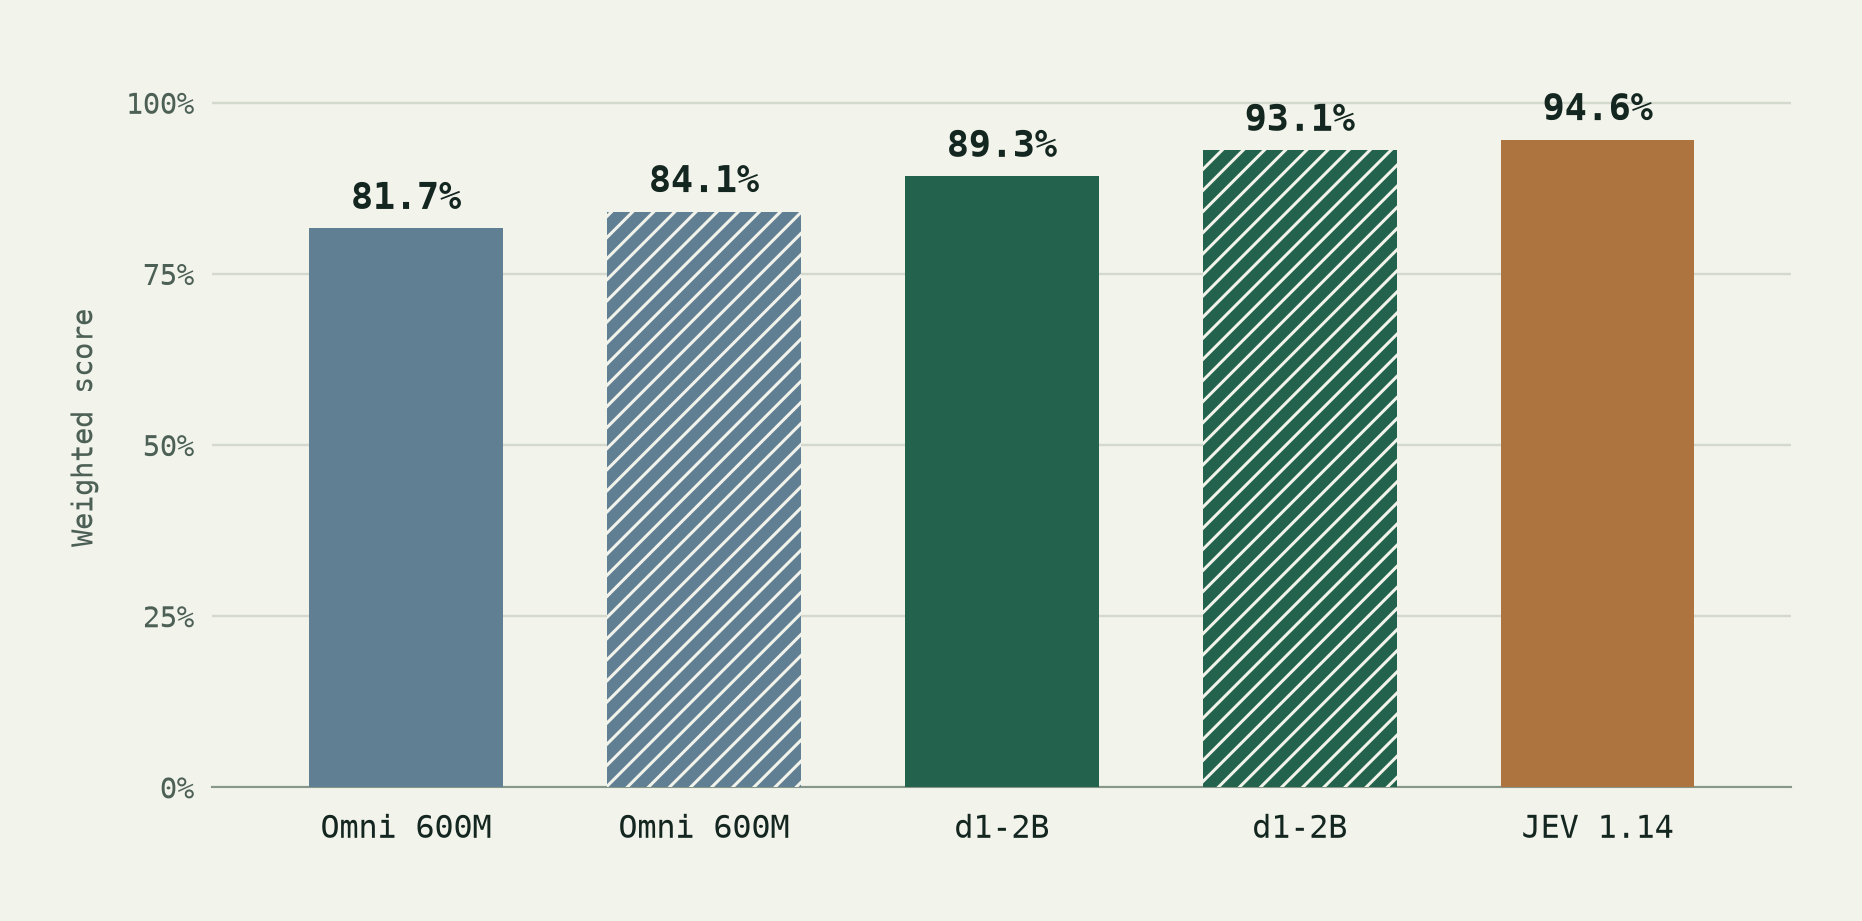
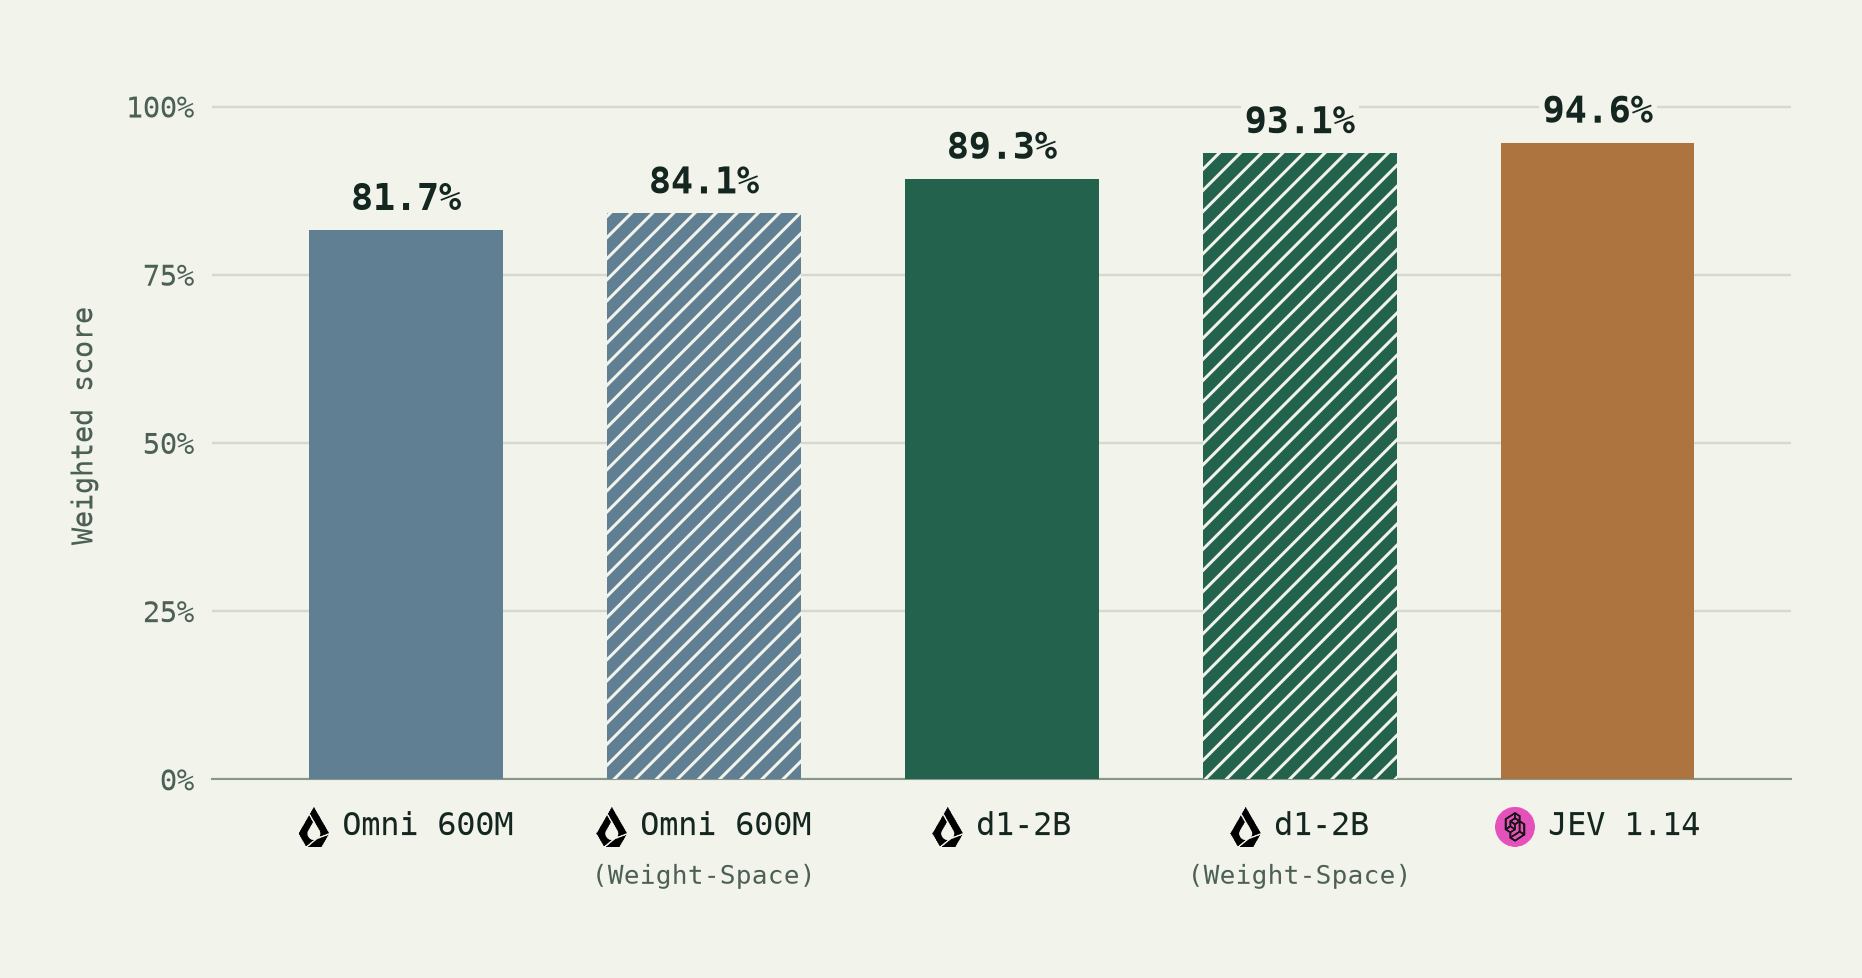
Label Weight-Space results with model branding

diff --git a/licenses/NOTICE.md b/licenses/NOTICE.md
@@ -3,5 +3,8 @@ revision b230d26), under the Apache License 2.0. The Commons frontend itself
 adapts parts of Centaur Context under MIT. The original MIT notice is included
 in CONTEXT-LICENSE.
 
-The TypeSafe mark identifies the hosted JEV integration. The artwork comes
-from the [TypeSafe website](https://typesafe.ai/).
+The TypeSafe mark identifies JEV in the app and benchmark chart. The artwork
+comes from the [TypeSafe website](https://typesafe.ai/).
+
+The benchmark chart uses the [Liquid AI website icon](https://www.liquid.ai/icon.png?icon.2h77kbzw1i4d2.png)
+to identify Omni 600M and d1-2B.

diff --git a/README.md b/README.md
@@ -17,7 +17,7 @@ weight edit on your own labeled mail and load the resulting profile.
 **JEV scored highest, and WeightSpace improved both local models.** Every
 run used the same 400 emails, frozen shared prompt, and 0.50 cutoff.
 
-![Weighted scores for five configurations. Striped bars show the two WeightSpace patches.](docs/assets/weighted-results.png)
+![Weighted scores for Omni 600M, d1-2B, and JEV. The two striped bars are labeled Weight-Space.](docs/assets/weighted-results.png)
 
 | Model | Weighted score | Missed / 47 | False alerts / 353 | Penalty |
 | --- | ---: | ---: | ---: | ---: |
